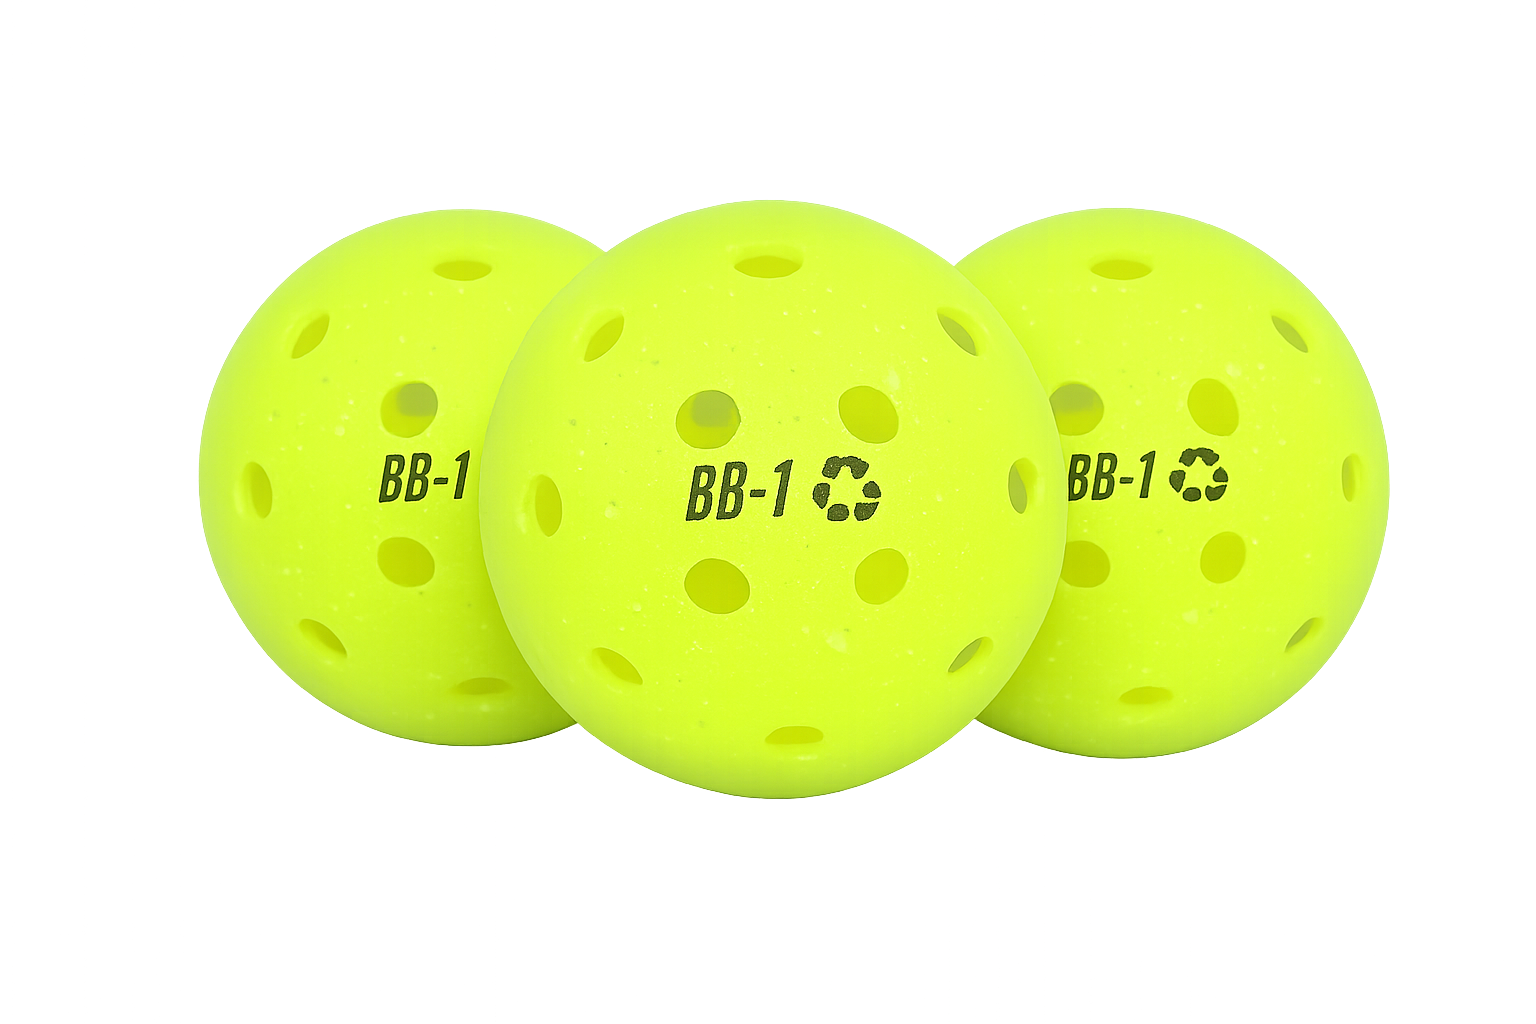
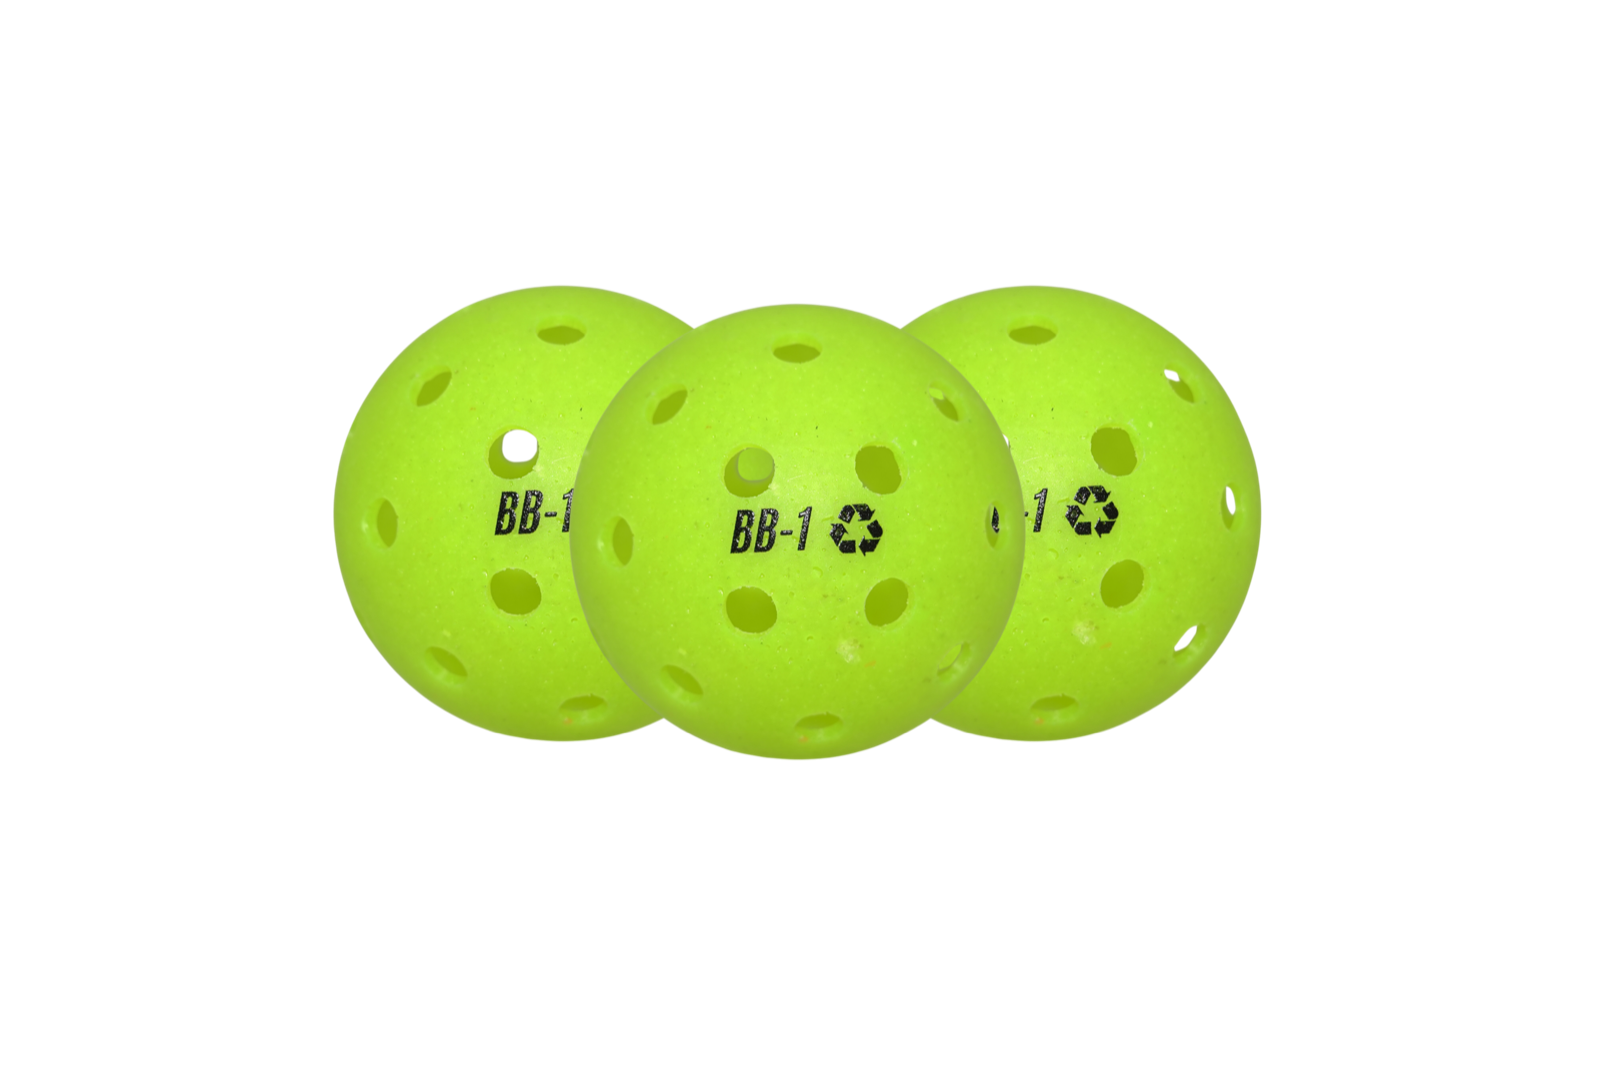
feat: add FAC-027 + FAC-028, swap in the real BB-1 pack photos
Facilities (network now 96 bins across 13 states):
- The Picklr, Cumming GA — FAC-027, first Georgia bin outside the coast
- The Commons Club, Estero FL — FAC-028

Pack images are now photographs of the actual BB-1 instead of the earlier
renders. Sourced from Documents at 4446-8892px and resized to 1600px wide
with alpha intact; next/image handles the rest per breakpoint.

Claude-Session: https://claude.ai/code/session_0175HsjpQEMv9MRr1zT3vx5D

diff --git a/lib/locations.ts b/lib/locations.ts
@@ -34,6 +34,7 @@ export const LOCATION_DATA: StateData[] = [
       { name: "Three Oaks Park", city: "Estero", nonprofit: false, coords: [-81.82, 26.42] },
       { name: "Murano", city: "Estero", nonprofit: false, coords: [-81.80, 26.45] },
       { name: "Shadowwood Preserve", city: "Estero", nonprofit: false, coords: [-81.83, 26.43] },
+      { name: "The Commons Club", city: "Estero", nonprofit: false, coords: [-81.80, 26.41] },
       { name: "Ace Pickleball Club", city: "Fort Myers", nonprofit: false, coords: [-81.87, 26.64] },
       { name: "Brooks Community Park", city: "Fort Myers", nonprofit: false, coords: [-81.86, 26.60] },
       { name: "DNA Pickleball", city: "Fort Myers", nonprofit: false, coords: [-81.88, 26.62] },
@@ -98,6 +99,7 @@ export const LOCATION_DATA: StateData[] = [
     coords: [-83.5, 32.7],
     zoomLevel: 5,
     locations: [
+      { name: "The Picklr", city: "Cumming", nonprofit: false, coords: [-84.14, 34.21] },
       { name: "Pickleball Clubs (2)", city: "Saint Mary's", nonprofit: true, coords: [-81.55, 30.73] },
       { name: "Wilmington Island", city: "Savannah", nonprofit: true, coords: [-80.97, 32.00] },
       { name: "Lake Mayer", city: "Savannah", nonprofit: true, coords: [-81.06, 32.02] },
